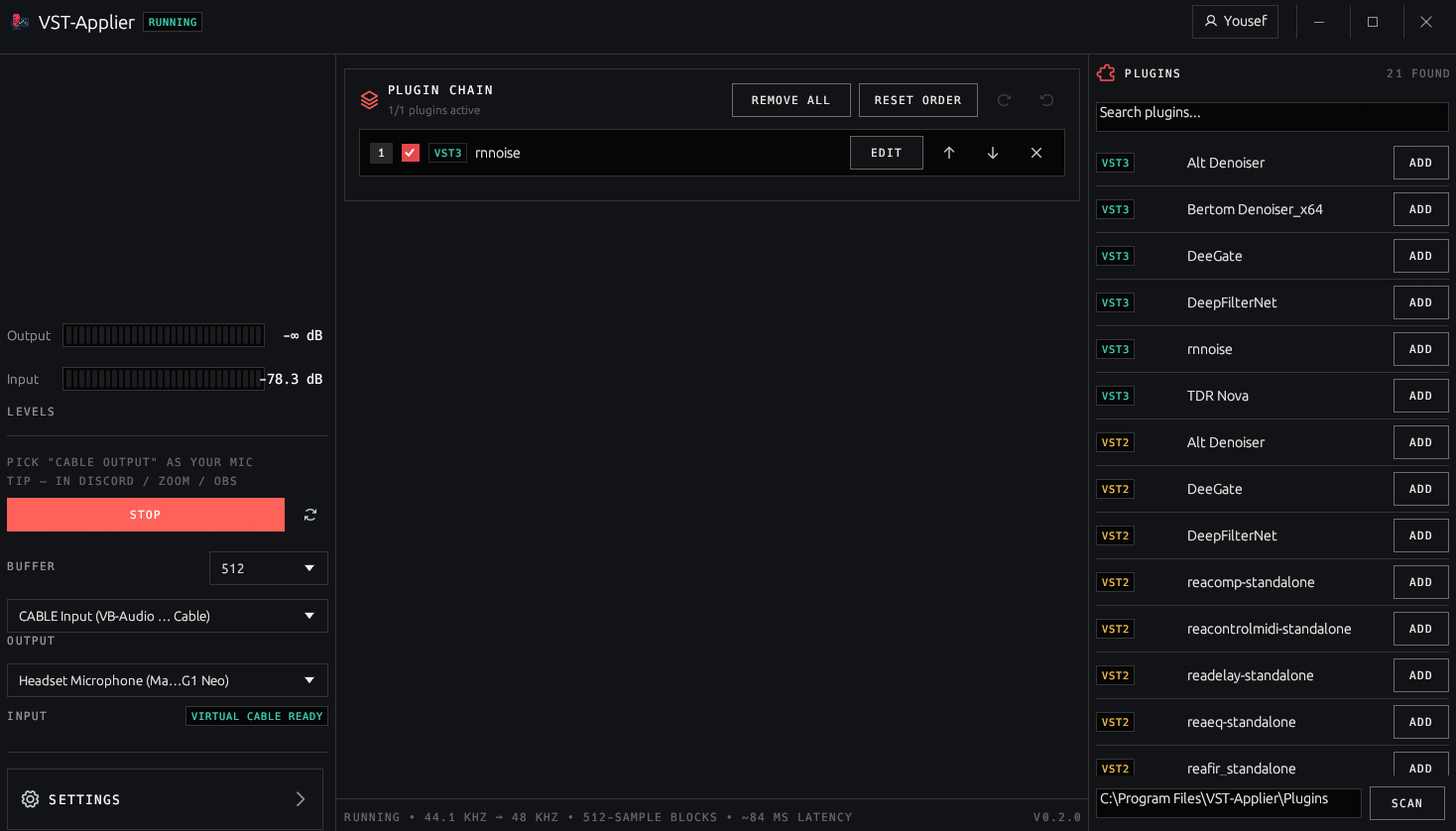
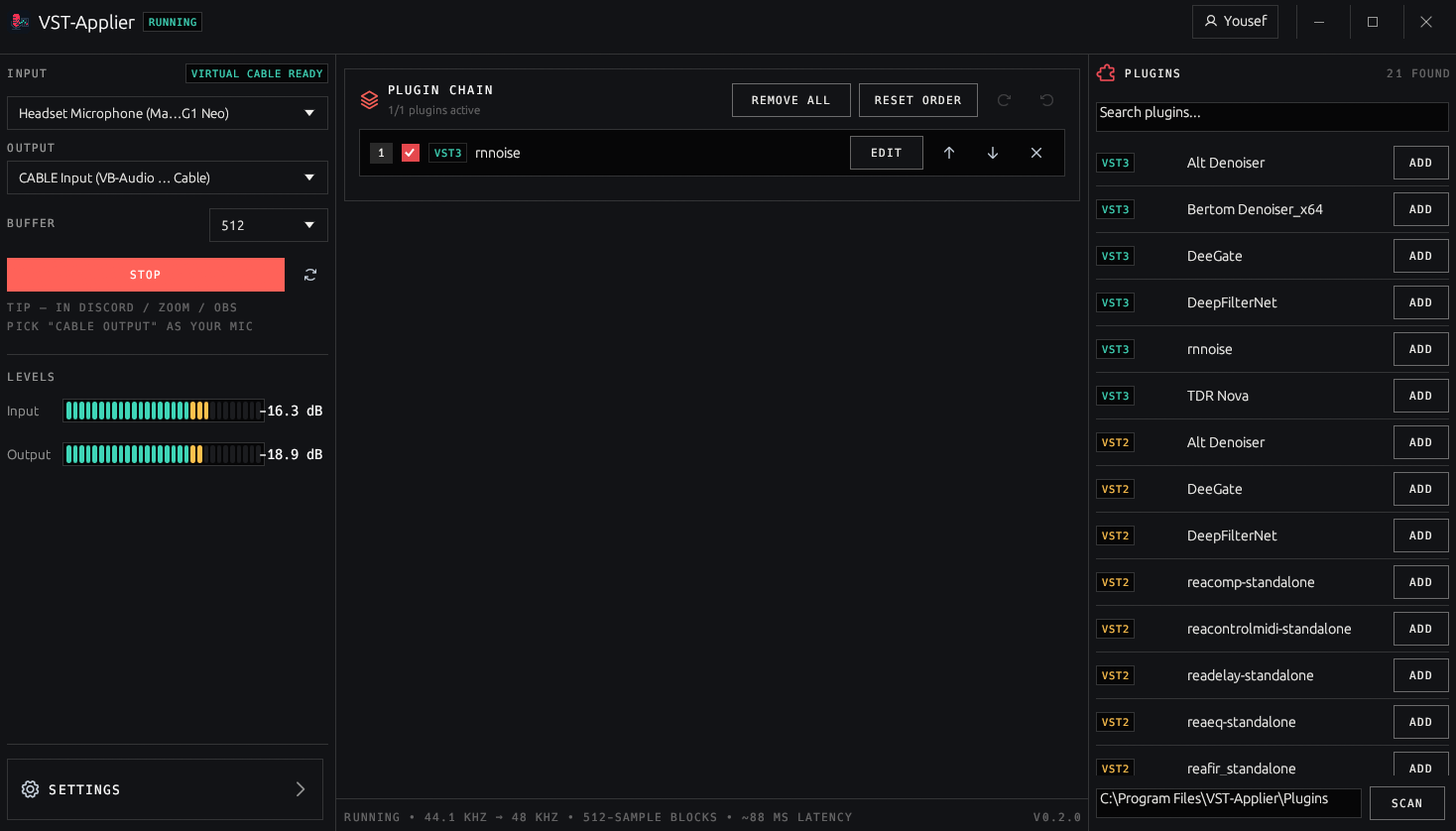
fix: rail back to original positions (bottom_up anchor bug made ScrollArea content stack from the bottom); settings dock now sits flush with full border visible

diff --git a/src/main.rs b/src/main.rs
@@ -1588,60 +1588,14 @@ impl eframe::App for App {
                         log_line(&format!("sidebar panel_w={panel_w:.0} panel_h={panel_h:.0}"));
                     }
                 }
-                // Dock layout: Settings pins to the true bottom (no slack
-                // under it); the scroll fills everything above.
-                ui.with_layout(egui::Layout::bottom_up(egui::Align::Min), |ui| {
-                    // In bottom_up the first widget sits at the very
-                    // bottom: the Settings row.
-                    let sresp = egui::Frame::default()
-                        .fill(theme::BG)
-                        .stroke(egui::Stroke::new(1.0_f32, theme::LINE))
-                        .corner_radius(egui::CornerRadius::ZERO)
-                        .inner_margin(egui::Margin {
-                            left: 12,
-                            right: 12,
-                            top: 13,
-                            bottom: 13,
-                        })
-                        .show(ui, |ui| {
-                            ui.horizontal(|ui| {
-                                icons::icon(ui, icons::Icon::Gear, icons::MIST);
-                                let galley = {
-                                    let format = egui::TextFormat {
-                                        font_id: egui::FontId::new(
-                                            13.0,
-                                            egui::FontFamily::Monospace,
-                                        ),
-                                        color: theme::INK_STRONG,
-                                        extra_letter_spacing: 1.6,
-                                        ..Default::default()
-                                    };
-                                    ui.painter().layout_job(
-                                        egui::text::LayoutJob::single_section(
-                                            "SETTINGS".to_string(),
-                                            format,
-                                        ),
-                                    )
-                                };
-                                ui.label(galley);
-                                let gap = (ui.available_width() - 26.0).max(0.0);
-                                ui.add_space(gap);
-                                icons::icon(ui, icons::Icon::ChevR, theme::TEXT_DIM);
-                            });
-                        })
-                        .response
-                        .interact(egui::Sense::click());
-                    if sresp.clicked() {
-                        self.show_settings = true;
-                    }
-                    ui.add_space(8.0);
-                    ui.separator();
-                    ui.add_space(6.0);
-                    // Independent scroll fills every pixel above the dock.
-                    egui::ScrollArea::vertical()
-                        .id_salt("left")
-                        .max_height((ui.available_height() - 4.0).max(120.0))
-                        .show(ui, |ui| {
+                let top = ui.next_widget_position().y;
+                // Scroll fills the top of the rail (normal top-down flow);
+                // the dock below absorbs leftover height so Settings sits
+                // flush at the bottom without a gap.
+                egui::ScrollArea::vertical()
+                    .id_salt("left")
+                    .max_height((panel_h - 108.0).max(120.0))
+                    .show(ui, |ui| {
                 let cable_status = self.cable_msg.clone();
                 // Flat control rail: no cards, hairline-separated groups,
                 // labels above fields (reads better in a narrow column),
@@ -1816,7 +1770,53 @@ impl eframe::App for App {
                     }
                 }
                 }); // end left scroll
-                }); // end dock (bottom_up)
+                // Dock: absorb leftover height so Settings sits flush at
+                // the bottom (no big gap under it).
+                ui.add_space((panel_h - (ui.next_widget_position().y - top) - 96.0).max(0.0));
+                ui.add_space(6.0);
+                ui.separator();
+                ui.add_space(6.0);
+                let sresp = egui::Frame::default()
+                    .fill(theme::BG)
+                    .stroke(egui::Stroke::new(1.0_f32, theme::LINE))
+                    .corner_radius(egui::CornerRadius::ZERO)
+                    .inner_margin(egui::Margin {
+                        left: 12,
+                        right: 12,
+                        top: 13,
+                        bottom: 13,
+                    })
+                    .show(ui, |ui| {
+                        ui.horizontal(|ui| {
+                            icons::icon(ui, icons::Icon::Gear, icons::MIST);
+                            let galley = {
+                                let format = egui::TextFormat {
+                                    font_id: egui::FontId::new(
+                                        13.0,
+                                        egui::FontFamily::Monospace,
+                                    ),
+                                    color: theme::INK_STRONG,
+                                    extra_letter_spacing: 1.6,
+                                    ..Default::default()
+                                };
+                                ui.painter().layout_job(
+                                    egui::text::LayoutJob::single_section(
+                                        "SETTINGS".to_string(),
+                                        format,
+                                    ),
+                                )
+                            };
+                            ui.label(galley);
+                            let gap = (ui.available_width() - 26.0).max(0.0);
+                            ui.add_space(gap);
+                            icons::icon(ui, icons::Icon::ChevR, theme::TEXT_DIM);
+                        });
+                    })
+                    .response
+                    .interact(egui::Sense::click());
+                if sresp.clicked() {
+                    self.show_settings = true;
+                }
                 if let Some(r) = self.route.as_mut() {
                     r.poll_preload();
                     // Status strings rebuild at 5 Hz: meters stay live via
